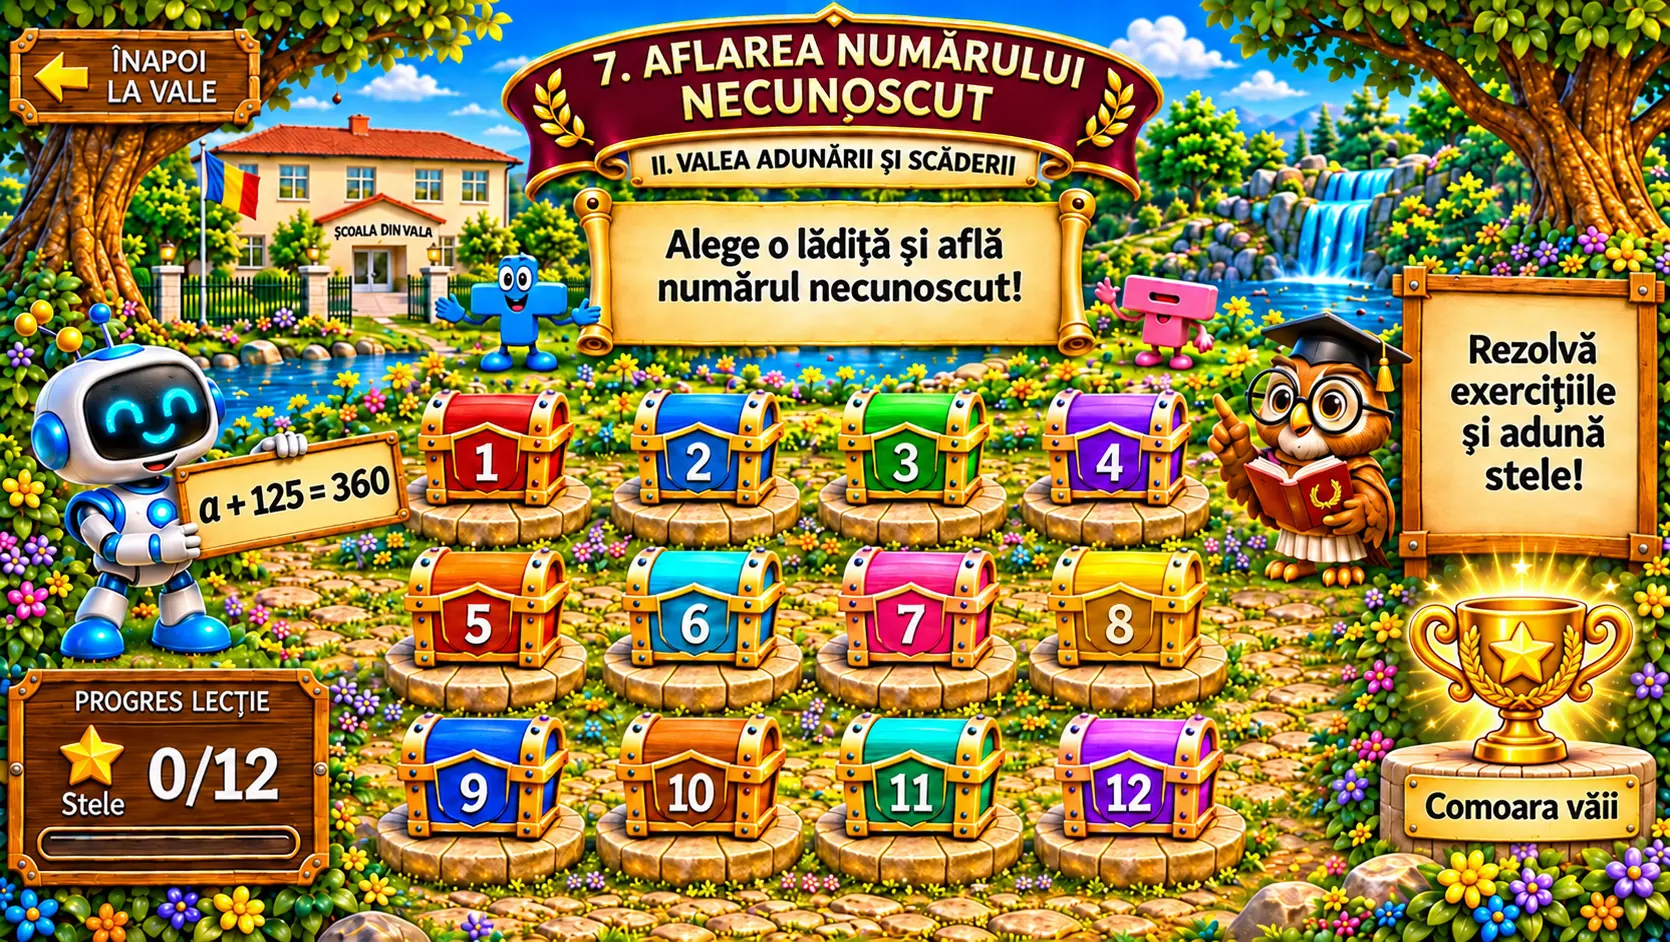
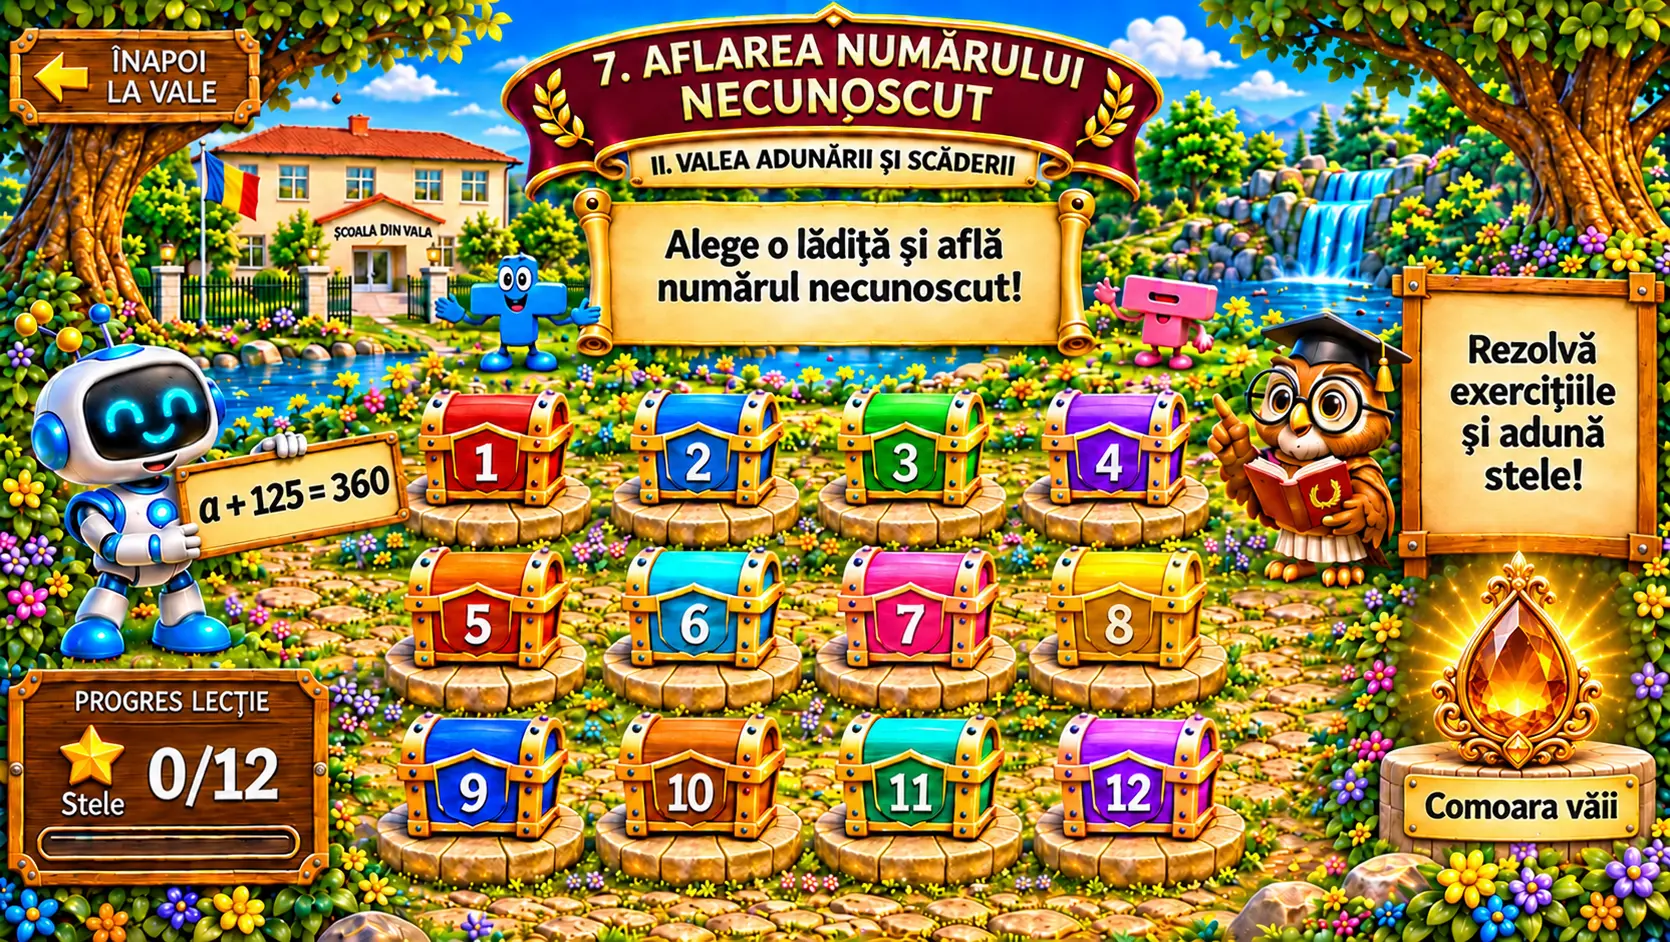
Show the amber Valley Treasure in lesson seven

diff --git a/index.html b/index.html
@@ -193,7 +193,7 @@
 <section id="unknown-number-page" hidden aria-label="Capitolul II, lecția 7 — Aflarea numărului necunoscut">
  <header class="map-toolbar"><button id="unknown-number-back" type="button">← Înapoi la vale</button><div><h2>Aflarea numărului necunoscut</h2><p id="unknown-number-student"></p></div></header>
  <div class="map-scroll" tabindex="0" role="region" aria-label="Cele 12 lădițe ale lecției Aflarea numărului necunoscut"><div class="addition-art">
-  <img src="./assets/valea-numarul-necunoscut.webp" alt="Douăsprezece lădițe numerotate, roboțelul cu un exemplu de calcul și trofeul Comoara văii.">
+  <img src="./assets/valea-numarul-necunoscut.webp?v=chihlimbar" alt="Douăsprezece lădițe numerotate, roboțelul cu un exemplu de calcul și bijuteria de chihlimbar Comoara văii.">
   <button id="unknown-number-back-sign" type="button" aria-label="Înapoi la Valea adunării și scăderii"></button>
   <div id="unknown-number-chests"></div>
   <output id="unknown-number-count" aria-label="Steluțe la lecția 7">0/12</output>
